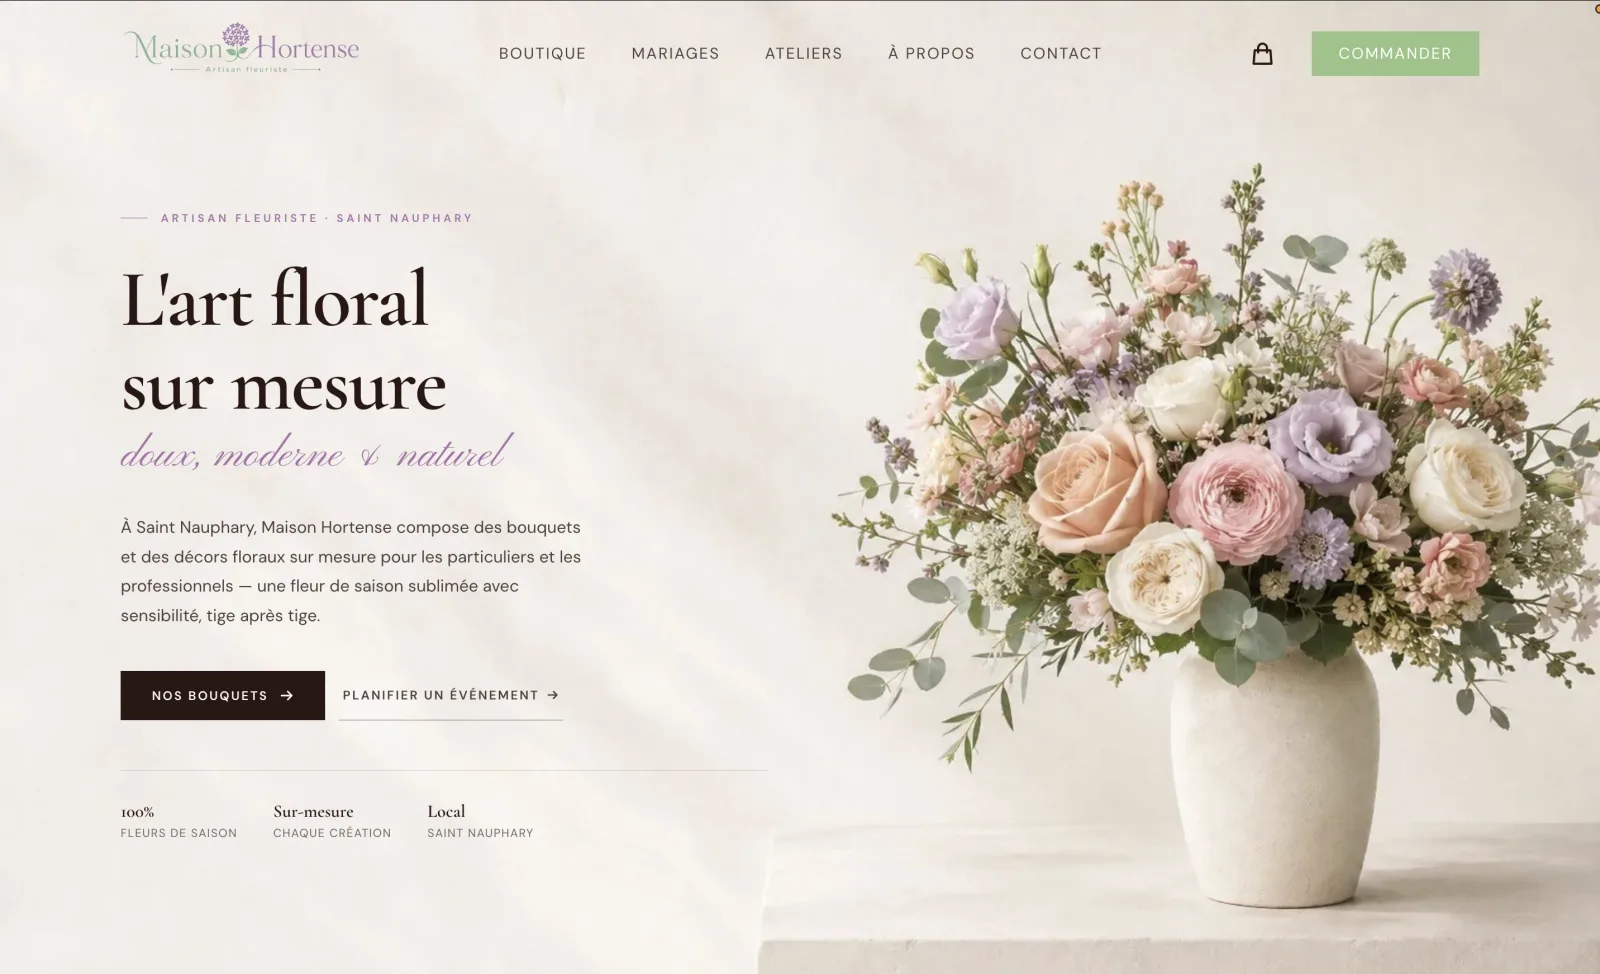
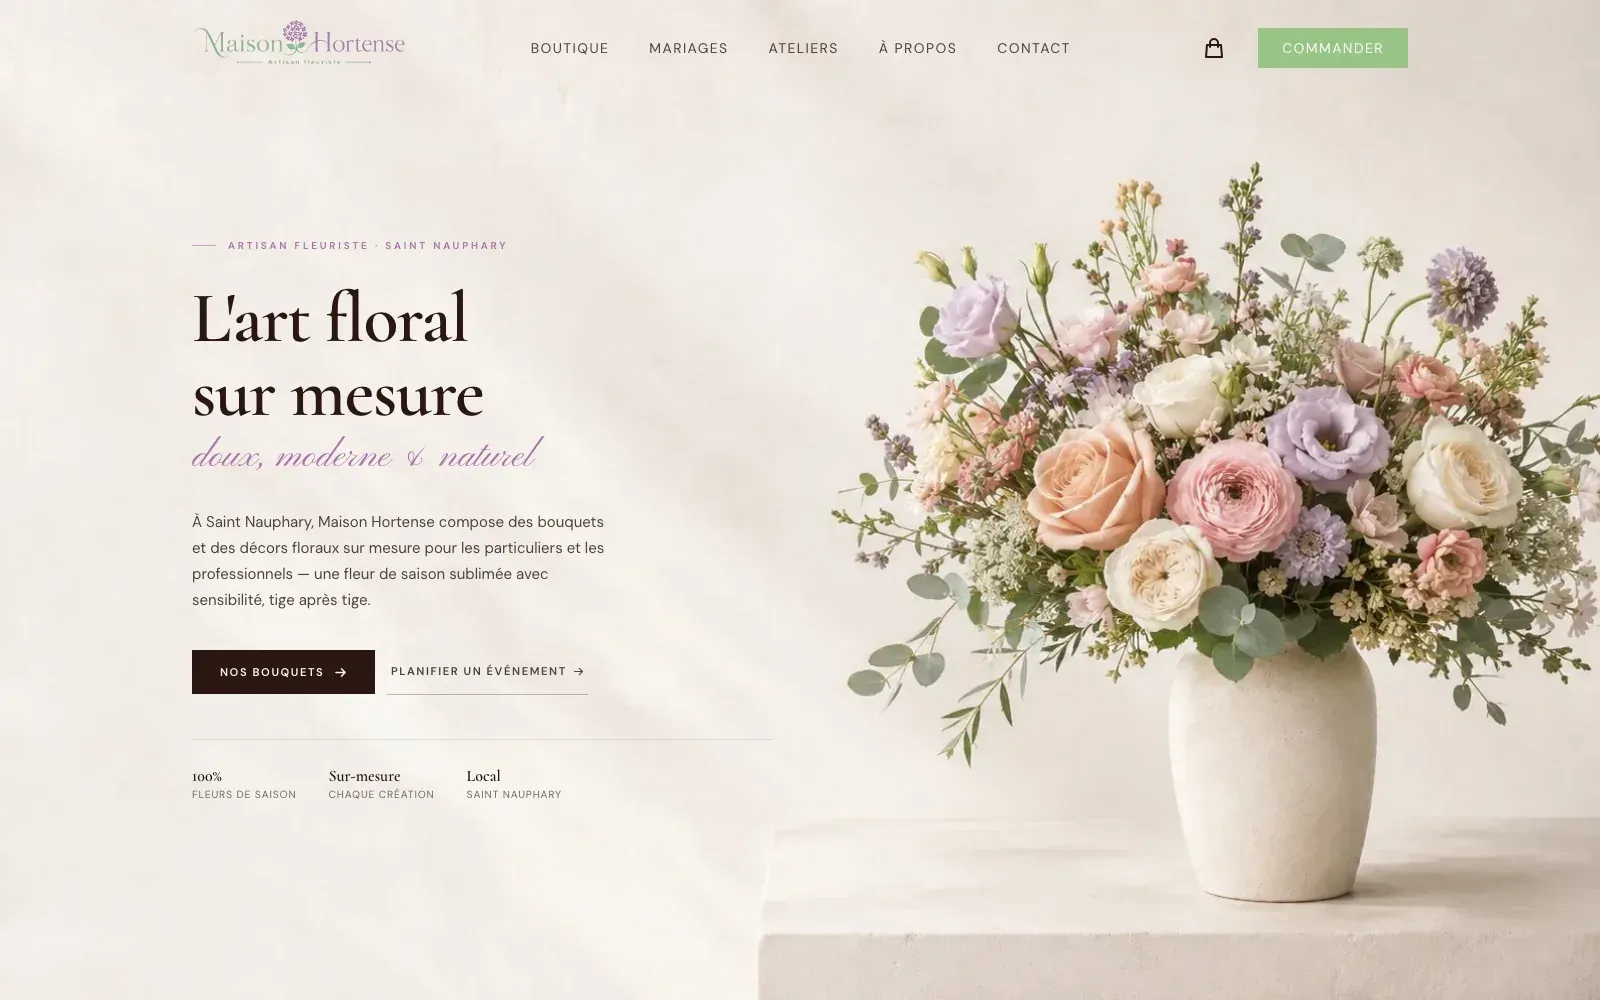
update 1

diff --git a/src/lib/portfolio.ts b/src/lib/portfolio.ts
@@ -5,7 +5,10 @@
  * boutique partenaire de la marketplace bloomy.one, jamais une maquette
  * présentée comme un site en ligne (règle produit : aucune preuve inventée).
  *
- * Les captures vivent dans `public/realisations/`, en WebP < 100 Ko.
+ * Les captures sont produites depuis les sites en ligne par
+ * `npm run captures` (voir `scripts/capture-realisations.mjs`) : desktop
+ * 1600 × 1000 et mobile 390 × 844 en densité 2, converties en WebP sous
+ * 100 Ko. Régénérer après toute refonte d'un site client.
  *
  * `note` décrit ce qui est visible sur la capture : ce que le site fait, ce
  * qu'on a dessiné. Jamais une métrique — aucun chiffre de trafic ou de vente
@@ -15,9 +18,15 @@
 export type ShowcaseSite = {
   /** Identifiant stable — sert de clé et de valeur d'événement analytics. */
   slug: string;
-  /** Nom de la boutique, tel qu'elle se nomme elle-même. */
+  /** Nom du projet, tel qu'il se nomme lui-même. */
   name: string;
   city: string;
+  /**
+   * Sépare les vitrines florales du reste. Les pages fleuristes ne montrent
+   * que `fleuriste` : un écolodge au milieu de quatre boutiques brouillerait
+   * la spécialisation qu'elles servent à démontrer.
+   */
+  sector: "fleuriste" | "autre";
   /** Ce que le site fait, en trois mots — sert d'étiquette sous la capture. */
   focus: string;
   /** Une phrase sur ce qui a été livré, vérifiable sur la capture. */
@@ -28,11 +37,7 @@ export type ShowcaseSite = {
   height: number;
   /** Alt descriptif (10–125 caractères, règle seo-images). */
   alt: string;
-  /**
-   * Capture mobile réelle du même site, quand elle existe. Les compositions
-   * desktop + mobile de l'accueil l'affichent dès qu'elle est renseignée, et
-   * s'en passent proprement tant qu'elle est absente.
-   */
+  /** Capture mobile réelle du même site. */
   mobile?: { image: string; width: number; height: number; alt: string };
 };
 
@@ -41,36 +46,96 @@ export const showcaseSites: ShowcaseSite[] = [
     slug: "monloup",
     name: "Monloup",
     city: "Roanne",
+    sector: "fleuriste",
     focus: "Boutique en ligne & livraison",
     note: "Boutique, location, mariages et deuil : chaque service a sa page et son parcours de commande.",
     image: "/realisations/monloup.webp",
     width: 1600,
-    height: 979,
+    height: 1000,
     alt: "Site de Monloup, artisan fleuriste à Roanne, conçu par Bloomy Studio.",
+    mobile: {
+      image: "/realisations/monloup-mobile.webp",
+      width: 780,
+      height: 1688,
+      alt: "Version mobile du site de Monloup, artisan fleuriste à Roanne.",
+    },
   },
   {
     slug: "maison-hortense",
     name: "Maison Hortense",
     city: "Saint-Nauphary",
+    sector: "fleuriste",
     focus: "Vitrine & mariages",
     note: "Une vitrine éditoriale ivoire et lilas, avec la boutique et les ateliers dans le même parcours.",
     image: "/realisations/maison-hortense.webp",
     width: 1600,
-    height: 974,
+    height: 1000,
     alt: "Site de Maison Hortense, fleuriste à Saint-Nauphary, conçu par Bloomy Studio.",
+    mobile: {
+      image: "/realisations/maison-hortense-mobile.webp",
+      width: 780,
+      height: 1688,
+      alt: "Version mobile du site de Maison Hortense, fleuriste à Saint-Nauphary.",
+    },
   },
   {
-    slug: "kl-fleuriste",
-    name: "KL Fleuriste",
+    slug: "kl-fleurs",
+    name: "KL Fleurs & Événementiel",
     city: "Reims",
+    sector: "fleuriste",
     focus: "Scénographie & événementiel",
     note: "Un aplat vert signature et un chemin dédié aux événements, à côté de la boutique.",
-    image: "/realisations/kl-fleuriste.webp",
+    image: "/realisations/kl-fleurs.webp",
     width: 1600,
-    height: 1007,
-    alt: "Site de KL Fleuriste & Événementiel à Reims, conçu par Bloomy Studio.",
+    height: 1000,
+    alt: "Site de KL Fleurs & Événementiel à Reims, conçu par Bloomy Studio.",
+    mobile: {
+      image: "/realisations/kl-fleurs-mobile.webp",
+      width: 780,
+      height: 1688,
+      alt: "Version mobile du site de KL Fleurs & Événementiel à Reims.",
+    },
+  },
+  {
+    slug: "maison-orpha",
+    name: "Maison Orpha",
+    city: "Reims",
+    sector: "fleuriste",
+    focus: "Couleur & objets",
+    note: "Un rouge franc sur toute la page, assumé jusqu'au bout : la boutique vend des fleurs et des objets colorés.",
+    image: "/realisations/maison-orpha.webp",
+    width: 1600,
+    height: 1000,
+    alt: "Site de Maison Orpha, fleuriste et objets colorés à Reims, conçu par Bloomy Studio.",
+    mobile: {
+      image: "/realisations/maison-orpha-mobile.webp",
+      width: 780,
+      height: 1688,
+      alt: "Version mobile du site de Maison Orpha, fleuriste à Reims.",
+    },
+  },
+  {
+    slug: "flovia",
+    name: "Flōvia",
+    city: "Micro-villages flottants",
+    sector: "autre",
+    focus: "Tourisme & immersion",
+    note: "Hors du monde floral : une expérience sombre et cinématographique pour un concept d'écolodges sur l'eau.",
+    image: "/realisations/flovia.webp",
+    width: 1600,
+    height: 1000,
+    alt: "Site de Flōvia, micro-villages flottants et écolodges, conçu par Bloomy Studio.",
+    mobile: {
+      image: "/realisations/flovia-mobile.webp",
+      width: 780,
+      height: 1688,
+      alt: "Version mobile du site de Flōvia, micro-villages flottants sur l'eau.",
+    },
   },
 ];
+
+/** Les vitrines florales seules — ce que montrent les pages fleuristes. */
+export const floristSites = showcaseSites.filter((s) => s.sector === "fleuriste");
 
 export function getShowcaseSite(slug: string): ShowcaseSite | undefined {
   return showcaseSites.find((s) => s.slug === slug);

diff --git a/src/app/realisations/page.tsx b/src/app/realisations/page.tsx
@@ -14,7 +14,7 @@ import { showcaseSites } from "@/lib/portfolio";
 export const metadata = pageMetadata({
   title: "Réalisations : sites de fleuristes conçus par Bloomy Studio",
   description:
-    "Les sites livrés par Bloomy Studio — Monloup à Roanne, Maison Hortense, KL Fleuriste à Reims — et la plateforme florale bloomy.one construite par l'équipe.",
+    "Les sites livrés par Bloomy Studio : Monloup, Maison Hortense, KL Fleurs, Maison Orpha et Flōvia — et la plateforme florale bloomy.one construite par l'équipe.",
   path: "/realisations",
 });
 
@@ -34,9 +34,10 @@ export default function RealisationsPage() {
         title="Des sites en ligne, pas des maquettes"
         lede={
           <>
-            Trois boutiques de fleuristes livrées, et la plateforme florale que
-            nous construisons nous-mêmes. Pas de logos décoratifs, pas de
-            pourcentages sortis de nulle part : ce que vous voyez est en ligne.
+            Quatre boutiques de fleuristes, un concept touristique, et la
+            plateforme florale que nous construisons nous-mêmes. Pas de logos
+            décoratifs, pas de pourcentages sortis de nulle part : ce que vous
+            voyez est en ligne.
           </>
         }
       />
@@ -50,8 +51,8 @@ export default function RealisationsPage() {
         <Container width="wide">
           <SectionHead
             eyebrow="Sites livrés"
-            title="Trois boutiques, trois univers"
-            lede="Chaque site part de la boutique elle-même — son nom, ses couleurs, sa façon de vendre. Aucun gabarit repris d'un projet à l'autre."
+            title="Cinq sites, cinq univers"
+            lede="Chaque site part du lieu lui-même — son nom, ses couleurs, sa façon de vendre. Quatre fleuristes et, pour finir, un projet qui n'a rien de floral : la méthode ne change pas."
             className="mb-14"
           />
           <div className="space-y-16 sm:space-y-24">

diff --git a/src/components/visuals/ShowcaseSites.tsx b/src/components/visuals/ShowcaseSites.tsx
@@ -2,12 +2,12 @@ import Image from "next/image";
 
 import { Sprig, type SpecimenName } from "@/components/visuals/Botanical";
 import { BrowserFrame } from "@/components/visuals/DeviceFrame";
-import { getShowcaseSite, showcaseSites } from "@/lib/portfolio";
+import { floristSites, getShowcaseSite } from "@/lib/portfolio";
 
 /**
- * Vitrine : trois sites réellement livrés par le studio, montrés plutôt que
- * décrits. C'est la réponse à la seule question qu'un fleuriste se pose en
- * arrivant — « ils font quoi, et est-ce que c'est beau ? ».
+ * Vitrine : les sites de fleuristes réellement livrés par le studio, montrés
+ * plutôt que décrits. C'est la réponse à la seule question qu'un fleuriste se
+ * pose en arrivant — « ils font quoi, et est-ce que c'est beau ? ».
  *
  * Les captures viennent de `lib/portfolio.ts` : uniquement des projets du
  * studio, jamais une boutique partenaire de la marketplace.
@@ -24,7 +24,7 @@ function SiteCard({
   eager?: boolean;
   className?: string;
 }) {
-  const site = showcaseSites[index];
+  const site = floristSites[index];
   return (
     <figure className={className}>
       <BrowserFrame label={`${site.name} — ${site.city}`}>
@@ -113,13 +113,13 @@ export function SiteCardSingle({
 }
 
 /**
- * Galerie complète : les trois sites côte à côte, sans rognage. Sert aux
- * pages où l'on a la place de tout montrer (réalisations, page service).
+ * Galerie complète : les vitrines florales côte à côte, sans rognage. Sert aux
+ * pages où l'on a la place de tout montrer.
  */
 export function SiteGallery({ className = "" }: { className?: string }) {
   return (
-    <div className={`grid gap-6 sm:grid-cols-2 lg:grid-cols-3 ${className}`}>
-      {showcaseSites.map((site, i) => (
+    <div className={`grid gap-6 sm:grid-cols-2 ${className}`}>
+      {floristSites.map((site, i) => (
         <SiteCard key={site.name} index={i} />
       ))}
     </div>

diff --git a/src/components/home/WorkShowcase.tsx b/src/components/home/WorkShowcase.tsx
@@ -5,16 +5,16 @@ import { useState } from "react";
 
 import { BrowserFrame } from "@/components/visuals/DeviceFrame";
 import { track } from "@/lib/analytics";
-import { showcaseSites } from "@/lib/portfolio";
+import { floristSites } from "@/lib/portfolio";
 
 /**
  * Vitrine — section 2 de la direction artistique.
  *
- * Le travail avant le discours : trois sites livrés, trois univers graphiques
- * différents. C'est la preuve que rien n'est décliné d'un modèle, et c'est la
+ * Le travail avant le discours : quatre boutiques livrées, quatre univers
+ * graphiques différents. C'est la preuve que rien n'est décliné d'un modèle, et c'est la
  * réponse à la seule question du visiteur — « est-ce que c'est beau ? ».
  *
- * Un seul arbre pour les deux mises en page : les trois captures existent une
+ * Un seul arbre pour les deux mises en page : chaque capture existe une seule
  * fois dans le DOM. Mobile, elles s'empilent et rien n'est à toucher pour tout
  * voir ; desktop, la sélection n'en montre qu'une, en grand.
  */
@@ -26,13 +26,13 @@ export function WorkShowcase() {
 
   const select = (index: number) => {
     setActive(index);
-    track("showcase_project_view", { project: showcaseSites[index].slug });
+    track("showcase_project_view", { project: floristSites[index].slug });
   };
 
   return (
     <div className="lg:grid lg:grid-cols-[16rem_minmax(0,1fr)] lg:items-center lg:gap-10">
       <ul className="hidden lg:flex lg:flex-col lg:gap-2">
-        {showcaseSites.map((s, i) => {
+        {floristSites.map((s, i) => {
           const current = i === active;
           return (
             <li key={s.slug}>
@@ -57,7 +57,7 @@ export function WorkShowcase() {
       </ul>
 
       <div className="space-y-10 lg:space-y-0">
-        {showcaseSites.map((s, i) => (
+        {floristSites.map((s, i) => (
           <figure
             key={s.slug}
             className={

diff --git a/src/components/home/Hero.tsx b/src/components/home/Hero.tsx
@@ -6,7 +6,7 @@ import { CtaLink } from "@/components/ui/CtaLink";
 import { Eyebrow } from "@/components/ui/Eyebrow";
 import { OrdersPeek } from "@/components/visuals/AdminPreview";
 import { BrowserFrame, PhoneFrame } from "@/components/visuals/DeviceFrame";
-import { showcaseSites } from "@/lib/portfolio";
+import { floristSites } from "@/lib/portfolio";
 
 /**
  * Hero — section 1 de la direction artistique.
@@ -26,7 +26,7 @@ const REASSURANCE = [
 ];
 
 function HeroComposition() {
-  const site = showcaseSites[0];
+  const site = floristSites[0];
   return (
     <div className="relative pb-12 sm:pb-16">
       <BrowserFrame label={`${site.name} — ${site.city}`}>

diff --git a/src/app/fleuristes/page.tsx b/src/app/fleuristes/page.tsx
@@ -169,7 +169,7 @@ export default function FleuristesPage() {
         <Container width="wide">
           <SectionHead
             eyebrow="Sites livrés"
-            title="Trois boutiques, trois univers"
+            title="Quatre boutiques, quatre univers"
             lede="Aucun modèle décliné : chaque site part de la boutique, de ses matières et de sa façon de vendre."
           />
           <SiteGallery className="mt-12" />

diff --git a/src/app/page.tsx b/src/app/page.tsx
@@ -105,7 +105,7 @@ export default function HomePage() {
         <Container width="wide">
           <SectionHead
             eyebrow="Nos réalisations"
-            title="Trois boutiques, trois univers"
+            title="Quatre boutiques, quatre univers"
             lede="Aucun modèle décliné : chaque site part de la boutique, de ses matières et de sa façon de vendre."
           />
           <div className="mt-12">

diff --git a/README.md b/README.md
@@ -78,22 +78,37 @@ Consultation des leads : console Firebase → Firestore → collection `leads` (
 
 `track()` (`src/lib/analytics.ts`) est le seul point d'entrée. Événements : `cta_audit_click`, `audit_start`, `audit_step`, `audit_submit`, `contact_submit`, `case_study_view`, `pricing_view`, `email_click`, `phone_click`, `calendly_click`. Rien ne part sans consentement **et** sans `NEXT_PUBLIC_GA_ID`.
 
-## Déploiement — Firebase App Hosting
+## Déploiement — `bloomystudio.web.app`
 
-Le site est **indépendant** de l'application Bloomy principale : le déployer dans un backend App Hosting dédié (idéalement un projet Firebase distinct) pour ne toucher à aucune production existante.
+Cible : le site Hosting **`bloomystudio`** du projet **`bloomy-antigravity`** (déjà créé, il ne sert rien aujourd'hui). `.firebaserc` déclare la cible `studio` qui pointe dessus.
+
+**Pourquoi pas un simple `firebase deploy --only hosting`** : l'intégration « web frameworks » du CLI Firebase couvre Next.js **12 – 15.0**, ce projet est en **16.2.11**. Et un export statique n'est pas envisageable — les formulaires d'audit et de contact sont des Server Actions, ils exigent un serveur.
+
+La voie retenue est donc **App Hosting** (support officiel de Next 16) **derrière Firebase Hosting**, qui réécrit tout le trafic vers le service Cloud Run du backend. C'est ce que décrit `firebase.json`.
 
 ```bash
-firebase apphosting:backends:create --project <projet-studio> --location europe-west4
-# Connecter le dépôt Git : chaque push sur la branche configurée déclenche build + déploiement.
+# 1. Backend App Hosting — id `bloomystudio`, région europe-west1
+#    (l'id et la région doivent correspondre au bloc `run` de firebase.json).
+#    Requiert le plan Blaze et un dépôt GitHub connecté.
+firebase apphosting:backends:create --project bloomy-antigravity --location europe-west1
+
+# 2. Réécriture Hosting → backend, sur le site bloomystudio
+firebase deploy --only hosting:studio --project bloomy-antigravity
+
+# 3. Règles Firestore (destination des leads)
+firebase deploy --only firestore:rules --project bloomy-antigravity
 ```
 
 1. La configuration runtime est dans `apphosting.yaml` (instances, `NEXT_PUBLIC_SITE_URL`, secrets commentés).
 2. Secrets : `firebase apphosting:secrets:set RESEND_API_KEY` puis décommenter le bloc correspondant.
-3. Domaine : associer `studio.bloomy.one` (ou le domaine choisi) dans la console App Hosting, puis mettre `NEXT_PUBLIC_SITE_URL` en cohérence **avant** le build.
-4. Publier `firestore.rules` : `firebase deploy --only firestore:rules`.
-5. Après mise en ligne : rediriger `bloomy.one/consulting/` en **301** vers le nouveau domaine (à configurer sur le site principal Bloomy), déclarer le sitemap dans Search Console.
+3. Domaine : `NEXT_PUBLIC_SITE_URL` vaut `https://bloomystudio.web.app`. Pour basculer plus tard sur un domaine propre, le changer dans `apphosting.yaml` **avant** le build, puis l'associer dans la console.
+4. Après mise en ligne : rediriger `bloomy.one/consulting/` en **301** vers le nouveau domaine, déclarer le sitemap dans Search Console.
 
 Environnements de préversion : créer un second backend (`studio-staging`) pointant sur une branche `staging` — App Hosting gère la séparation.
+
+## Captures des réalisations
+
+`npm run captures` reprend les captures desktop et mobile des sites livrés depuis leur version en ligne, les convertit en WebP sous 100 Ko et les écrit dans `public/realisations/`. La liste des sources vit dans `scripts/capture-realisations.mjs` ; les métadonnées (ville, secteur, légende) dans `src/lib/portfolio.ts`. À relancer après toute refonte d'un site client.
 
 ## Avant le lancement public
 

diff --git a/docs/direction-artistique.md b/docs/direction-artistique.md
@@ -573,14 +573,22 @@ Défauts corrigés au passage : `--color-lilac-deep` inexistant, classe morte
 bourgogne et vert profond illisibles sur bande sombre, couleur en dur
 `bg-[#2b2733]`, et les espaces supprimés par JSX après un lien.
 
+- Portfolio réel : cinq sites capturés depuis leur version en ligne, desktop
+  **et** mobile (`npm run captures`). Quatre vitrines florales — Monloup,
+  Maison Hortense, KL Fleurs, Maison Orpha — et Flōvia, hors du monde floral.
+  Le champ `sector` sépare les deux : les pages fleuristes ne montrent que les
+  vitrines florales, `/realisations` montre tout.
+- Le téléphone apparaît désormais dans le hero et dans l'étude de cas : la
+  composition desktop + mobile + tableau de bord est complète.
+
 Reste à faire :
 
-1. Brancher les captures mobiles dès réception des URL (sections 1, 2, 5).
-2. Photographies d'atelier après shooting (sections 5 et 12).
-3. Entrée `case-studies.ts` pour Monloup — le CTA de la section 5 pointera
+1. Photographies d'atelier après shooting (sections 5 et 12).
+2. Entrée `case-studies.ts` pour Monloup — le CTA de la section 5 pointera
    alors vers l'étude de cas plutôt que vers `/realisations`.
-4. Répercussion du système sur les pages piliers et spokes.
-5. Témoignages réels dans `ProofRow`, à l'obtention des autorisations écrites.
+3. Témoignages réels dans `ProofRow`, à l'obtention des autorisations écrites.
+4. Déploiement : backend App Hosting à créer (plan Blaze + dépôt GitHub), puis
+   la réécriture Hosting déjà décrite dans `firebase.json`.
 
 À chaque lot : `npm run lint && npm run typecheck && npm test && npm run build`,
 puis `npm run e2e`, puis vérification visuelle réelle en desktop **et** mobile.
